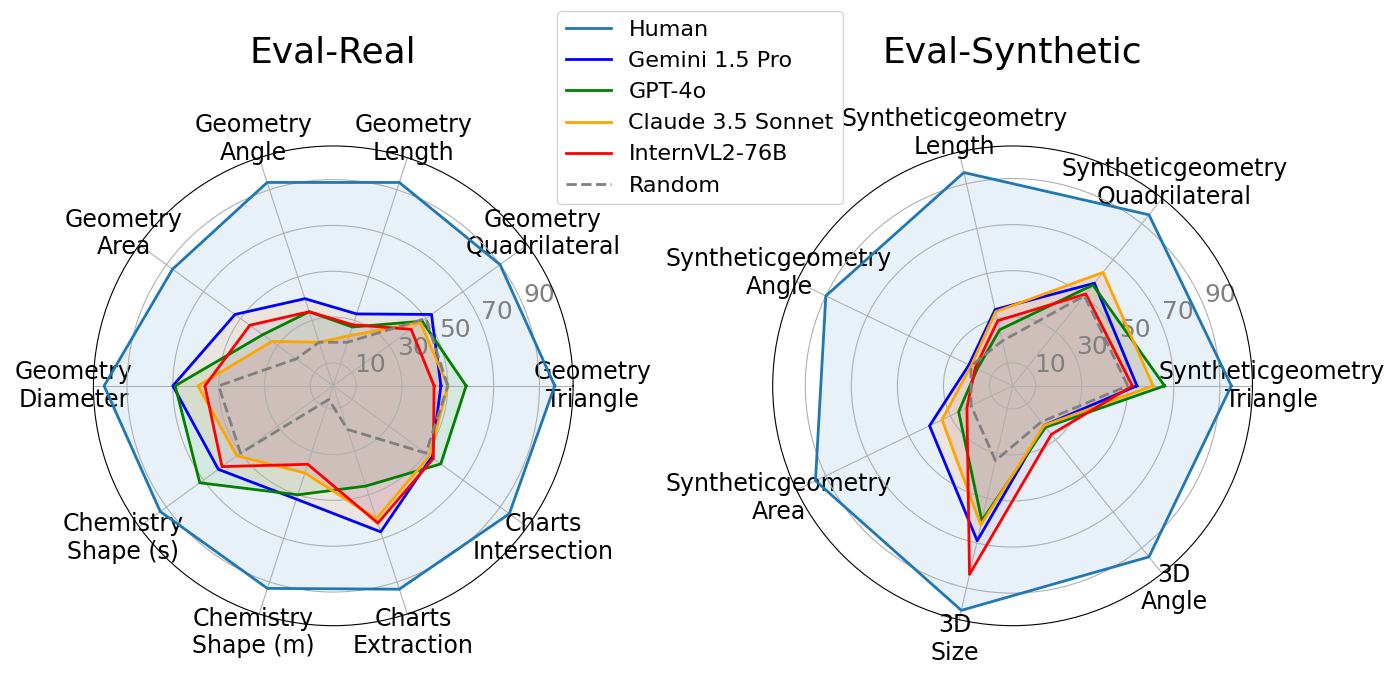
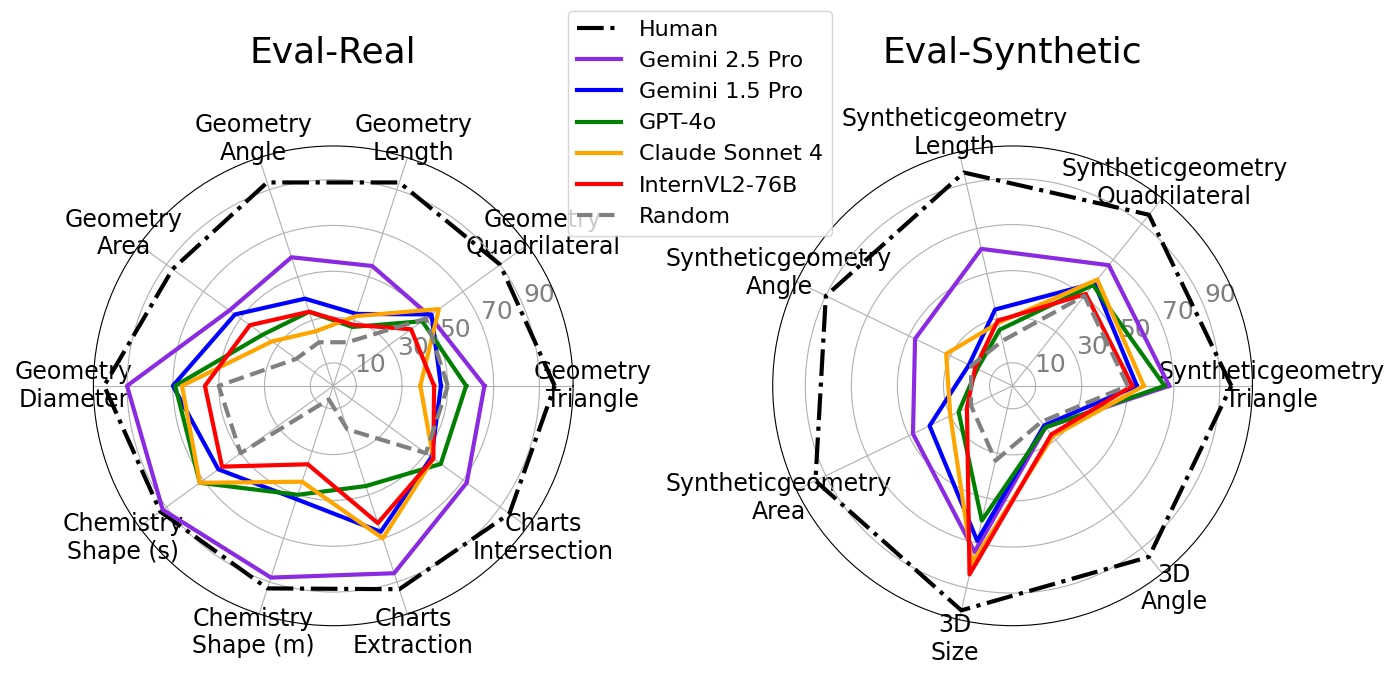
updated results

diff --git a/index.html b/index.html
@@ -329,7 +329,7 @@
           </p>
           <ol>
             <li>
-              Even large LVLMs struggle with perceiving geometric information &mdash; 20 LVLMs we evaluate, including GPT-4o and Gemini 1.5 Pro, work poorly on 
+              Even large LVLMs struggle with perceiving geometric information &mdash; 23 LVLMs we evaluate, including GPT-4o and Gemini 2.5 Pro, work poorly on 
               <span class="visonlyqa">VisOnlyQA</span>, while human performance is nearly perfect.
             </li>
             <li>
@@ -1053,7 +1053,7 @@
 
         <div class="content has-text-justified">
           <p>
-            We evaluate 20 LVLMs, including GPT-4o and Gemini 1.5 Pro, on <span class="visonlyqa">VisOnlyQA</span>. Our results show that even state-of-the-art LVLMs still often cannot accurately perceive basic geometric information in images.
+            We evaluate 23 LVLMs, including GPT-4o and Gemini 2.5 Pro, on <span class="visonlyqa">VisOnlyQA</span>. Our results show that even state-of-the-art LVLMs still often cannot accurately perceive basic geometric information in images.
           </p>
           <p class="has-text-centered">
             <a href="#result-tables">Full results are provided at the end of this page.</a>
@@ -1236,10 +1236,13 @@
               <tr><td>InternVL2-40B</td><td>43.0</td><td>45.0</td><td>32.0</td><td>23.0</td><td>31.0</td><td>57.0</td><td>28.0</td><td>30.0</td><td>61.0</td><td>58.0</td><td>42.1</td></tr>
               <tr><td>InternVL2-76B</td><td>44.0</td><td>42.0</td><td>28.0</td><td>34.0</td><td>45.0</td><td>56.0</td><td>60.0</td><td>36.0</td><td>63.0</td><td>54.0</td><td>46.0</td></tr>
               <tr><td>Claude 3.5 Sonnet</td><td>50.0</td><td>47.0</td><td>23.0</td><td>20.0</td><td>33.0</td><td>59.0</td><td>52.0</td><td>40.0</td><td>61.0</td><td>52.0</td><td>43.4</td></tr>
+              <tr><td>Claude Sonnet 4</td><td>38.0</td><td>57.0</td><td>32.0</td><td>25.0</td><td>33.0</td><td>66.0</td><td>72.0</td><td>44.0</td><td>70.0</td><td>54.0</td><td>48.1</td></tr>
+              <tr><td>Claude Opus 4</td><td>41.0</td><td>47.0</td><td>35.0</td><td>34.0</td><td>36.0</td><td>60.0</td><td>72.0</td><td>50.0</td><td>80.0</td><td>50.0</td><td>49.3</td></tr>
               <tr><td>GPT-4o-mini</td><td>45.0</td><td>66.0</td><td>26.0</td><td>19.0</td><td>30.0</td><td>58.0</td><td>58.0</td><td>32.0</td><td>40.0</td><td>53.0</td><td>42.4</td></tr>
               <tr><td>GPT-4o</td><td>58.0</td><td>48.0</td><td>27.0</td><td>34.0</td><td>38.0</td><td>69.0</td><td>72.0</td><td>50.0</td><td>46.0</td><td>58.0</td><td>48.8</td></tr>
               <tr><td>Gemini 1.5 Flash</td><td>47.0</td><td>51.0</td><td>25.0</td><td>24.0</td><td>39.0</td><td>60.0</td><td>68.0</td><td>42.0</td><td>58.0</td><td>58.0</td><td>49.2</td></tr>
               <tr><td>Gemini 1.5 Pro</td><td>47.0</td><td>53.0</td><td>33.0</td><td>40.0</td><td>53.0</td><td>70.0</td><td>62.0</td><td>52.0</td><td>67.0</td><td>53.0</td><td>52.6</td></tr>
+              <tr><td>Gemini 2.5 Pro</td><td>66.0</td><td>52.0</td><td>55.0</td><td>59.0</td><td>56.0</td><td>90.0</td><td>92.0</td><td>88.0</td><td>86.0</td><td>72.0</td><td>79.0</td></tr>
               <tr><td><strong>Human</strong></td><td>96.7</td><td>90.0</td><td>93.3</td><td>93.3</td><td>86.7</td><td>100.0</td><td>93.3</td><td>93.0</td><td>93.3</td><td>95.0</td><td>93.5</td></tr>
             </tbody>
           </table>
@@ -1283,10 +1286,13 @@
               <tr><td>InternVL2-40B</td><td>51.0</td><td>54.0</td><td>30.0</td><td>23.0</td><td>21.0</td><td>69.0</td><td>25.0</td><td>39.0</td></tr>
               <tr><td>InternVL2-76B</td><td>52.0</td><td>51.0</td><td>29.0</td><td>18.0</td><td>22.0</td><td>84.0</td><td>27.0</td><td>40.4</td></tr>
               <tr><td>Claude 3.5 Sonnet</td><td>61.0</td><td>63.0</td><td>33.0</td><td>20.0</td><td>34.0</td><td>62.0</td><td>22.0</td><td>42.1</td></tr>
+              <tr><td>Claude Sonnet 4</td><td>38.0</td><td>57.0</td><td>32.0</td><td>25.0</td><td>33.0</td><td>54.0</td><td>25.0</td><td>37.7</td></tr>
+              <tr><td>Claude Opus 4</td><td>41.0</td><td>47.0</td><td>35.0</td><td>34.0</td><td>36.0</td><td>50.0</td><td>34.0</td><td>39.6</td></tr>
               <tr><td>GPT-4o-mini</td><td>60.0</td><td>51.0</td><td>21.0</td><td>20.0</td><td>18.0</td><td>27.0</td><td>23.0</td><td>31.4</td></tr>
               <tr><td>GPT-4o</td><td>66.0</td><td>56.0</td><td>25.0</td><td>17.0</td><td>26.0</td><td>60.0</td><td>23.0</td><td>39.0</td></tr>
               <tr><td>Gemini 1.5 Flash</td><td>54.0</td><td>51.0</td><td>29.0</td><td>21.0</td><td>19.0</td><td>60.0</td><td>21.0</td><td>36.4</td></tr>
               <tr><td>Gemini 1.5 Pro</td><td>54.0</td><td>57.0</td><td>34.0</td><td>21.0</td><td>40.0</td><td>69.0</td><td>22.0</td><td>42.4</td></tr>
+              <tr><td>Gemini 2.5 Pro</td><td>66.0</td><td>52.0</td><td>55.0</td><td>59.0</td><td>56.0</td><td>72.0</td><td>59.0</td><td>59.9</td></tr>
               <tr><td><strong>Human</strong></td><td>95.0</td><td>95.0</td><td>95.0</td><td>90.0</td><td>95.0</td><td>100.0</td><td>95.0</td><td><strong>95.0</strong></td></tr>
             </tbody>
           </table>
